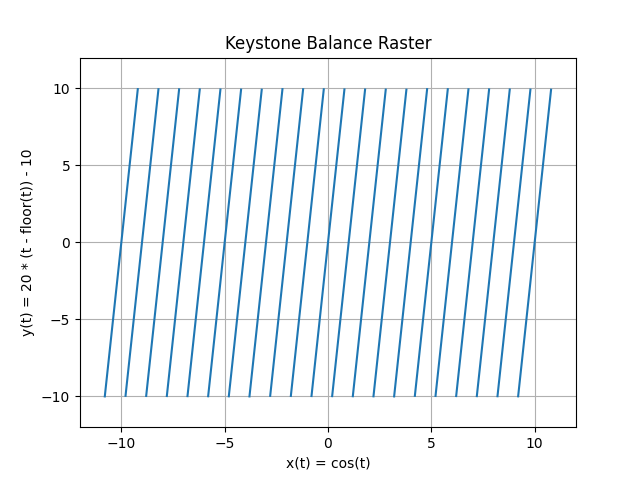
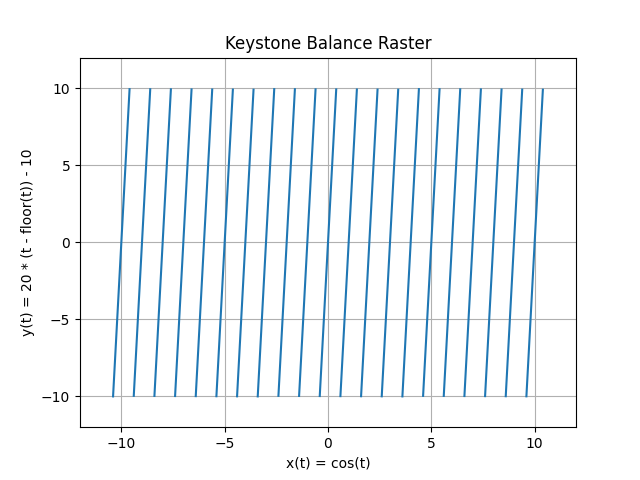
Simplified Keystone Adjustments

Changed region(s): [[0.1562, 0.5312, 0.8438, 0.8438], [0.1875, 0.1875, 0.875, 0.5]]

diff --git a/main.py b/main.py
@@ -41,10 +41,11 @@ class crt_raster:
         #(sgn(x) y² x + 16) * 0.1
 
         # Apply Keystone adjustment
-        x = x * (1 + (self.adjustments["keystone"]/(200 * self.starting_width/2)) * y)
+        x = x * (1 + (self.adjustments["keystone"]/(100 * self.starting_width)) * y)
 
         # Apply Keystone Balance adjustment
-        x += self.starting_width * (self.adjustments["keystone_balance"]/(200 * self.starting_width/2)) * y
+        #x += self.starting_width * (self.adjustments["keystone_balance"]/(200 * self.starting_width/2)) * y
+        x += (self.adjustments["keystone_balance"]/(10 * self.starting_width)) * y
 
         # Apply Shift and Scale adjustment
         x = np.multiply(x, self.adjustments["scale_x"]) + self.adjustments["shift_x"]
